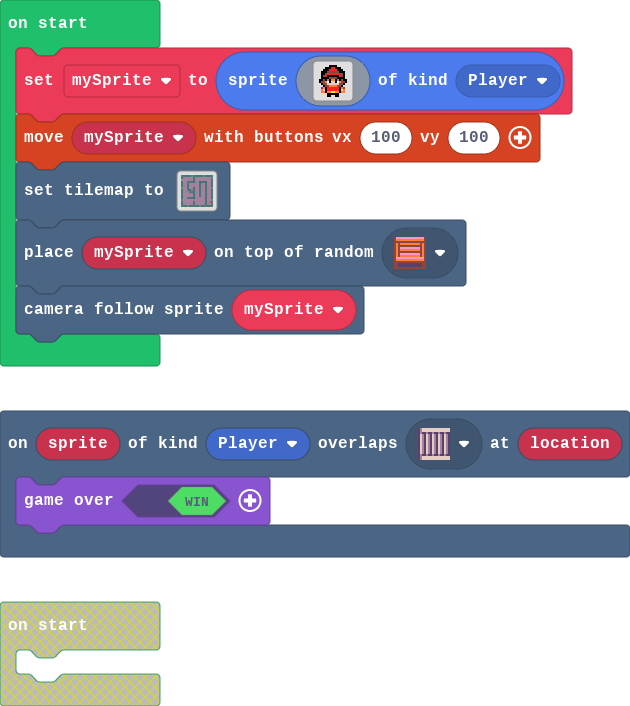
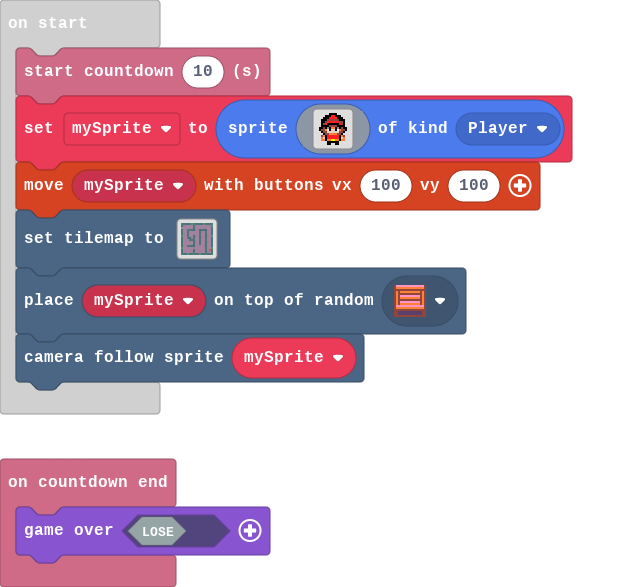
Update pxt.json, main.blocks, main.ts, images.g.jres, images.g.ts, tilemap.g.jres, tilemap.g.ts

diff --git a/tilemap.g.ts b/tilemap.g.ts
@@ -64,6 +64,25 @@ namespace myTiles {
 . . . . . . . . . . . . . . . . 
 . . . . . . . . . . . . . . . . 
 `, [myTiles.transparency16], TileScale.Sixteen);
+            case "level4":
+            case "level4":return tiles.createTilemap(hex`1000100000000000000000000000000000000000000000000000000000000000000000000000000000000000000000000000000000000000000000000000000000000000000000000000000000000000000000000000000000000000000000000000000000000000000000000000000000000000000000000000000000000000000000000000000000000000000000000000000000000000000000000000000000000000000000000000000000000000000000000000000000000000000000000000000000000000000000000000000000000000000000000000000000000000000000000000000000000000000000000000000000000000000000000000000000000000`, img`
+. . . . . . . . . . . . . . . . 
+. . . . . . . . . . . . . . . . 
+. . . . . . . . . . . . . . . . 
+. . . . . . . . . . . . . . . . 
+. . . . . . . . . . . . . . . . 
+. . . . . . . . . . . . . . . . 
+. . . . . . . . . . . . . . . . 
+. . . . . . . . . . . . . . . . 
+. . . . . . . . . . . . . . . . 
+. . . . . . . . . . . . . . . . 
+. . . . . . . . . . . . . . . . 
+. . . . . . . . . . . . . . . . 
+. . . . . . . . . . . . . . . . 
+. . . . . . . . . . . . . . . . 
+. . . . . . . . . . . . . . . . 
+. . . . . . . . . . . . . . . . 
+`, [myTiles.transparency16], TileScale.Sixteen);
         }
         return null;
     })

diff --git a/images.g.ts b/images.g.ts
@@ -77,6 +77,42 @@ d d d d d d d d d d d d d d b c
 . . . . . f f f f f f . . . . . 
 . . . . . f f . . f f . . . . . 
 `;
+            case "image5":return img`
+. . . . . . f f f f . . . . . . 
+. . . . f f f 2 2 f f f . . . . 
+. . . f f f 2 2 2 2 f f f . . . 
+. . f f f e e e e e e f f f . . 
+. . f f e 2 2 2 2 2 2 e e f . . 
+. . f e 2 f f f f f f 2 e f . . 
+. . f f f f e e e e f f f f . . 
+. f f e f b f 4 4 f b f e f f . 
+. f e e 4 1 f d d f 1 4 e e f . 
+. . f e e d d d d d d e e f . . 
+. . . f e e 4 4 4 4 e e f . . . 
+. . e 4 f 2 2 2 2 2 2 f 4 e . . 
+. . 4 d f 2 2 2 2 2 2 f d 4 . . 
+. . 4 4 f 4 4 5 5 4 4 f 4 4 . . 
+. . . . . f f f f f f . . . . . 
+. . . . . f f . . f f . . . . . 
+`;
+            case "image6":return img`
+. . . . . . f f f f . . . . . . 
+. . . . f f f 2 2 f f f . . . . 
+. . . f f f 2 2 2 2 f f f . . . 
+. . f f f e e e e e e f f f . . 
+. . f f e 2 2 2 2 2 2 e e f . . 
+. . f e 2 f f f f f f 2 e f . . 
+. . f f f f e e e e f f f f . . 
+. f f e f b f 4 4 f b f e f f . 
+. f e e 4 1 f d d f 1 4 e e f . 
+. . f e e d d d d d d e e f . . 
+. . . f e e 4 4 4 4 e e f . . . 
+. . e 4 f 2 2 2 2 2 2 f 4 e . . 
+. . 4 d f 2 2 2 2 2 2 f d 4 . . 
+. . 4 4 f 4 4 5 5 4 4 f 4 4 . . 
+. . . . . f f f f f f . . . . . 
+. . . . . f f . . f f . . . . . 
+`;
         }
         return null;
     })

diff --git a/main.ts b/main.ts
@@ -1,6 +1,10 @@
+info.onCountdownEnd(function () {
+    game.over(false)
+})
 scene.onOverlapTile(SpriteKind.Player, sprites.dungeon.stairEast, function (sprite, location) {
     game.over(true)
 })
+info.startCountdown(10)
 let mySprite = sprites.create(img`
     . . . . . . f f f f . . . . . . 
     . . . . f f f 2 2 f f f . . . . 
